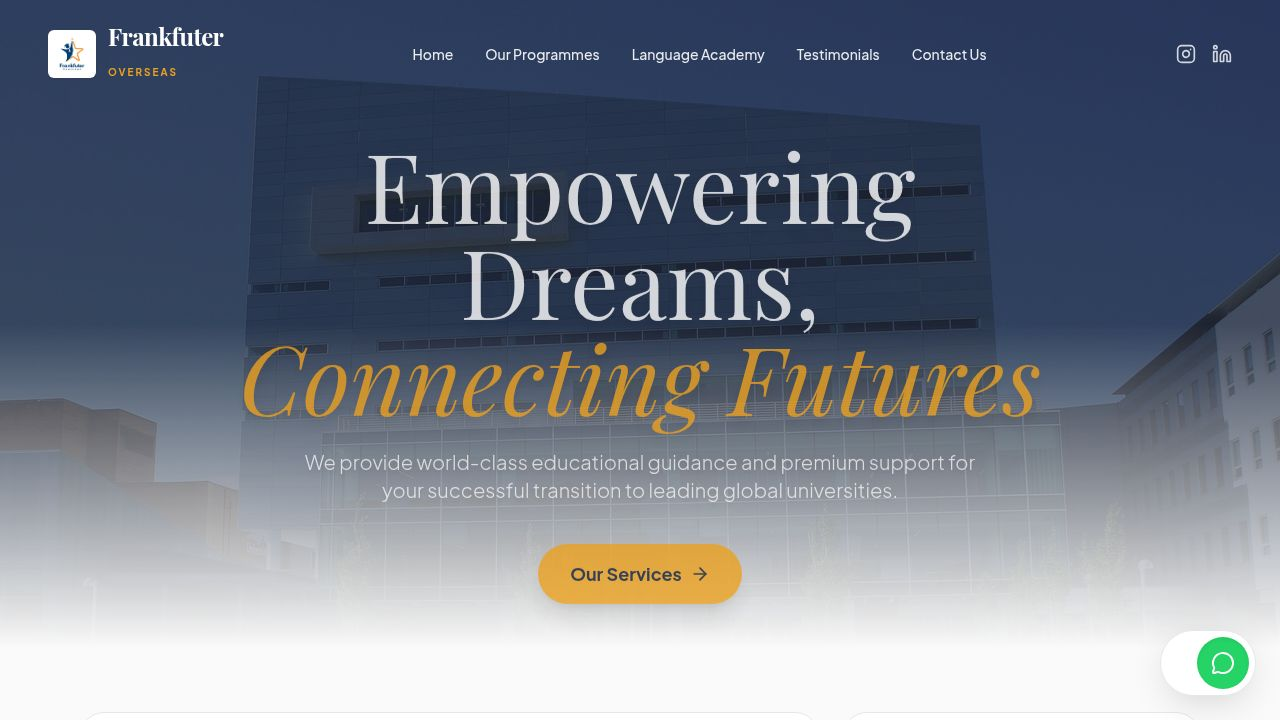
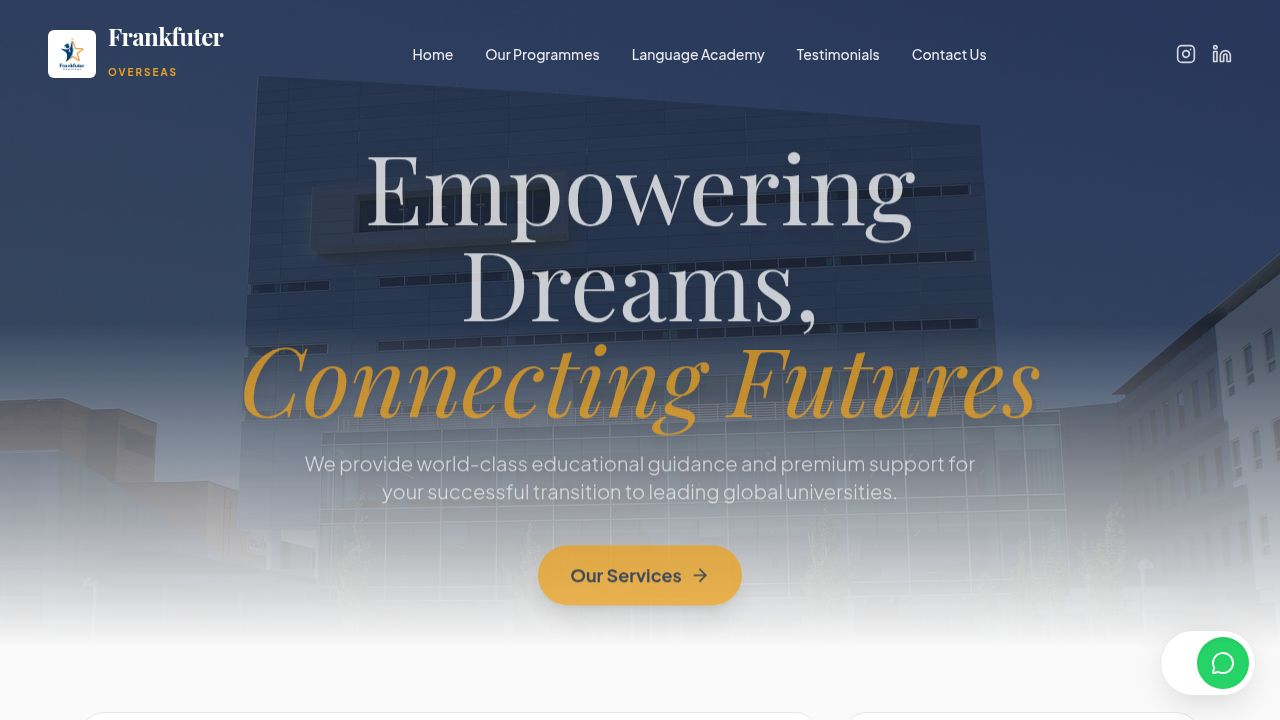
Update landing page to promote language academy and remove old section
Replace the "Paddy Boys" section with "Neo Speak Language Academy" content, updating the hero text, call to action, and dialog content with details about language training offerings and an Instagram link.

Replit-Commit-Author: Agent
Replit-Commit-Session-Id: 581afa57-6152-43ef-aeb9-a2a11b441991
Replit-Commit-Checkpoint-Type: full_checkpoint
Replit-Commit-Event-Id: ef228615-54d1-40f0-b5bd-6d3cc6353a47
Replit-Commit-Screenshot-Url: https://storage.googleapis.com/screenshot-production-us-central1/ef6444bc-116d-4caa-8fe7-68c54ce45995/581afa57-6152-43ef-aeb9-a2a11b441991/NZRwDAz
Replit-Helium-Checkpoint-Created: true

diff --git a/client/src/pages/Home.tsx b/client/src/pages/Home.tsx
@@ -321,32 +321,37 @@ export default function Home() {
             <div className="absolute top-0 right-0 w-64 h-64 bg-accent/20 rounded-full blur-3xl -translate-y-1/2 translate-x-1/3"></div>
             <div className="relative z-10 md:w-2/3 mb-6 md:mb-0 text-center md:text-left">
               <div className="flex items-center justify-center md:justify-start gap-2 mb-4">
-                <Globe className="w-6 h-6 text-accent" />
-                <span className="text-accent font-semibold tracking-wide uppercase text-sm">Global Network</span>
+                <Languages className="w-6 h-6 text-accent" />
+                <span className="text-accent font-semibold tracking-wide uppercase text-sm">Language Training</span>
               </div>
-              <h3 className="font-serif text-3xl md:text-4xl font-bold mb-4">Join our growing community</h3>
-              <p className="text-white/70 text-lg max-w-xl">Connect with thousands of students who have successfully built their careers abroad.</p>
+              <h3 className="font-serif text-3xl md:text-4xl font-bold mb-4">Neo Speak Language Academy</h3>
+              <p className="text-white/70 text-lg max-w-xl">Master foreign languages with certified trainers and achieve your desired proficiency for studying or working abroad.</p>
             </div>
             <div className="relative z-10">
               <Dialog>
                 <DialogTrigger asChild>
-                  <button className="bg-white text-primary hover:bg-accent hover:text-primary font-bold rounded-full px-8 py-4 transition-all shadow-xl">
-                    Know More
+                  <button className="bg-white text-primary hover:bg-accent hover:text-primary font-bold rounded-full px-8 py-4 transition-all shadow-xl cursor-pointer">
+                    Explore Academy
                   </button>
                 </DialogTrigger>
                 <DialogContent className="sm:max-w-md bg-white rounded-2xl">
                   <DialogHeader>
-                    <DialogTitle className="font-serif text-3xl text-primary mb-2">Paddy Boys</DialogTitle>
+                    <DialogTitle className="font-serif text-3xl text-primary mb-2">Neo Speak</DialogTitle>
                     <DialogDescription className="text-base text-foreground leading-relaxed pt-2">
-                      Frankfuter Overseas is more than just a consultancy — we’re a family abroad. Our exclusive student network, <span className="font-bold text-primary">Paddy Boys</span>, is a vibrant community that offers:
+                      Our language institute, <span className="font-bold text-primary">Neo Speak Language Academy</span>, provides comprehensive language training to ensure you meet proficiency requirements:
                       <ul className="mt-4 space-y-3">
-                        {["Peer support and guidance", "Cultural integration activities", "Sports events and meetups", "Local help in settling down"].map(item => (
+                        {["Goethe-Zertifikat preparation (A1 to C1)", "Native & highly qualified trainers", "Flexible batches & online classes", "Immersive learning techniques"].map(item => (
                           <li key={item} className="flex items-center gap-2">
                             <CheckCircle2 className="w-5 h-5 text-accent shrink-0" />
                             <span className="font-medium">{item}</span>
                           </li>
                         ))}
                       </ul>
+                      <div className="mt-6 pt-4 border-t border-border/50 text-center">
+                         <a href="https://www.instagram.com/neospeak_akademie/?hl=en" target="_blank" rel="noreferrer" className="inline-flex items-center gap-2 text-primary font-bold hover:text-accent transition-colors">
+                            <Instagram className="w-5 h-5" /> Visit our Instagram
+                         </a>
+                      </div>
                     </DialogDescription>
                   </DialogHeader>
                 </DialogContent>